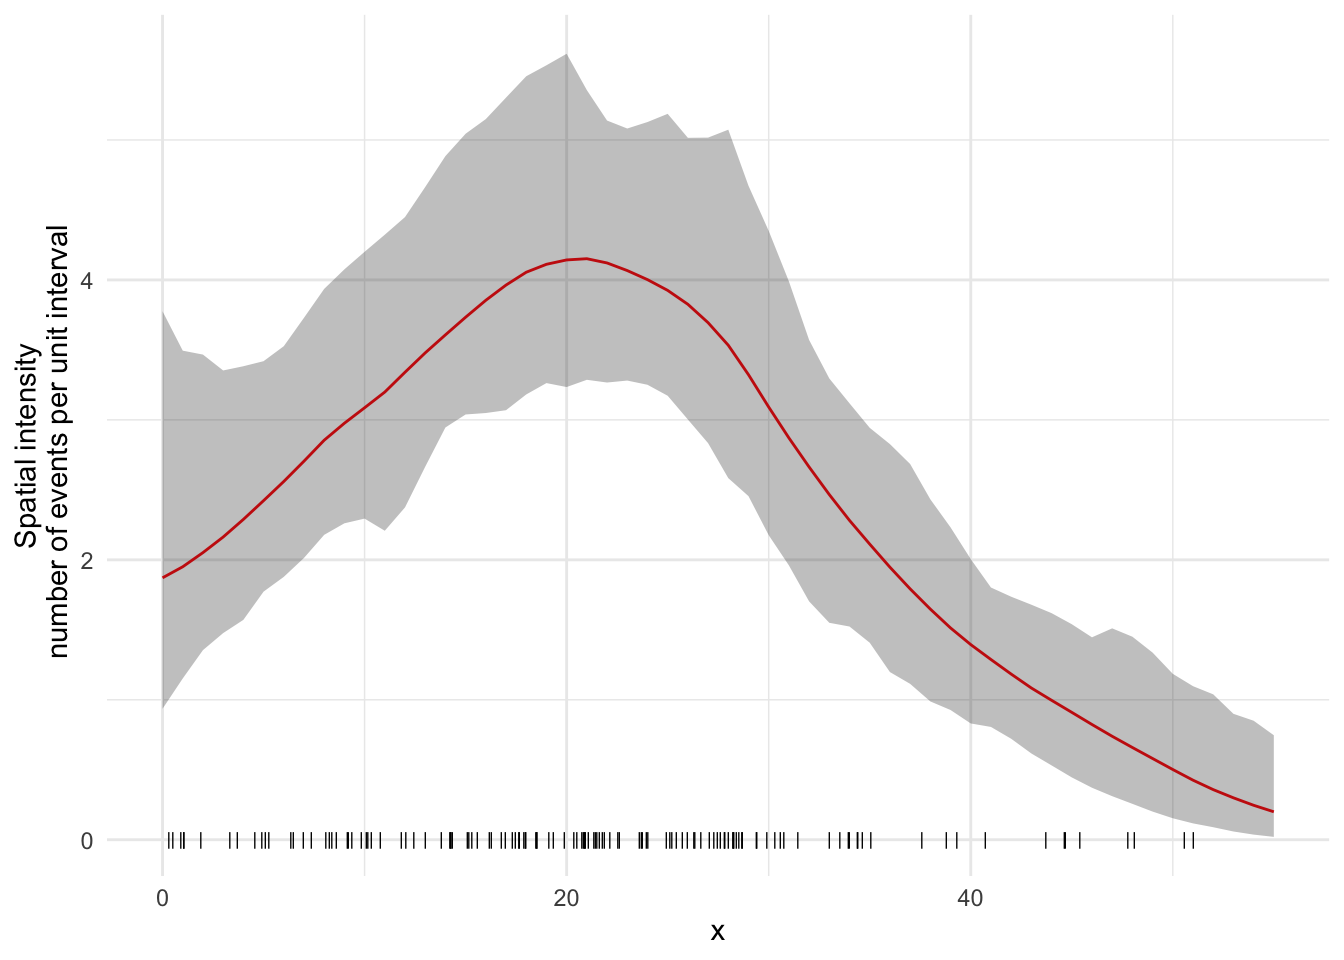
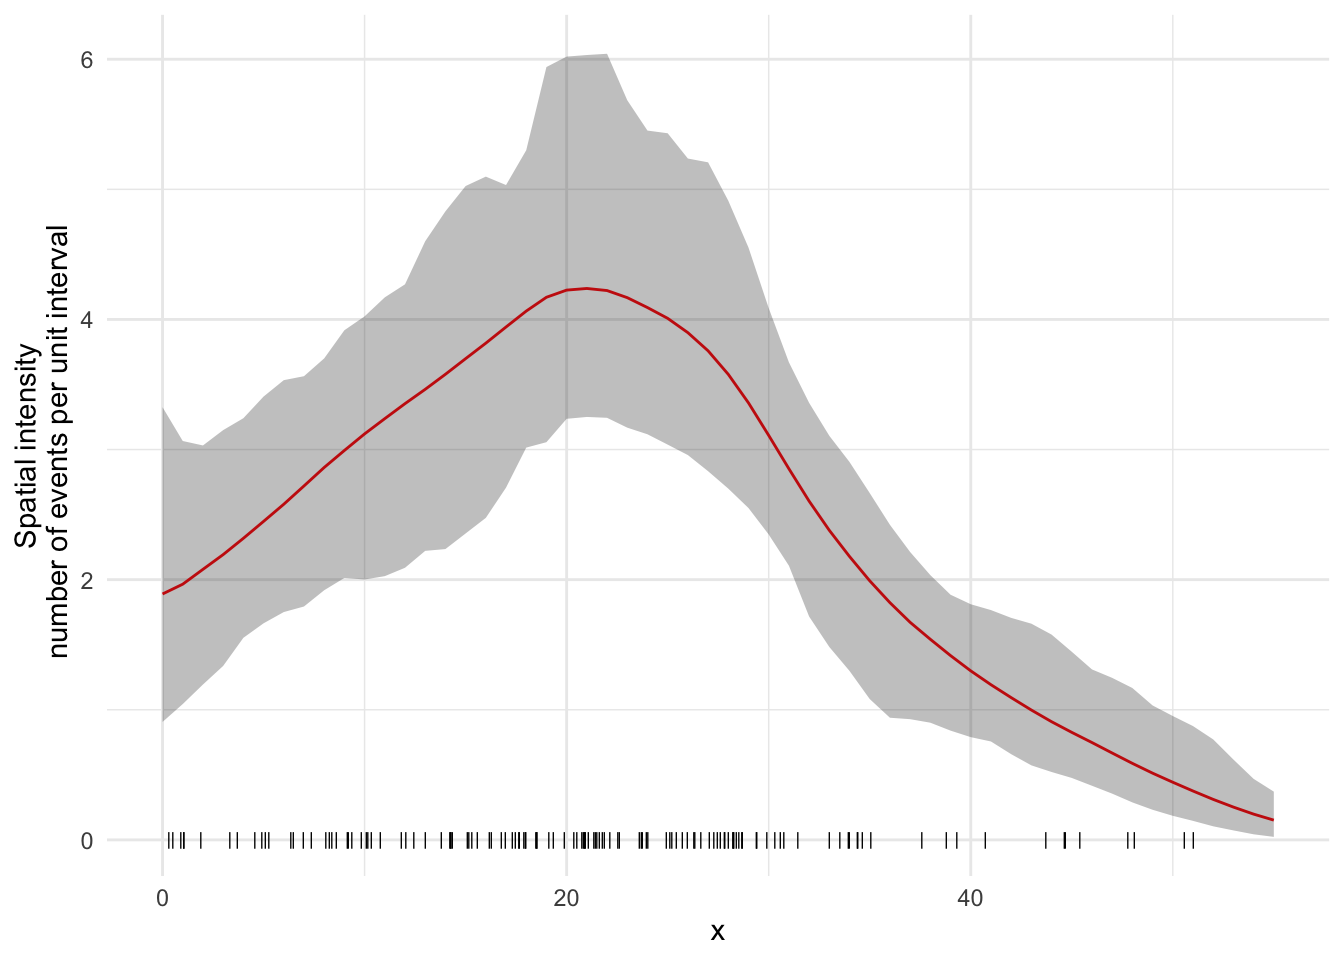
Lesson 21

diff --git a/docs/tuesday-april-18-2023.html b/docs/tuesday-april-18-2023.html
@@ -280,7 +280,7 @@ code span.wa { color: #60a0b0; font-weight: bold; font-style: italic; } /* Warni
 <li class="chapter" data-level="" data-path="tuesday-april-18-2023.html"><a href="tuesday-april-18-2023.html#models-for-point-pattern-data"><i class="fa fa-check"></i>Models for point pattern data</a></li>
 <li class="chapter" data-level="" data-path="tuesday-april-18-2023.html"><a href="tuesday-april-18-2023.html#fitting-and-interpreting-inhibition-models"><i class="fa fa-check"></i>Fitting and interpreting inhibition models</a></li>
 <li class="chapter" data-level="" data-path="tuesday-april-18-2023.html"><a href="tuesday-april-18-2023.html#fitting-and-interpreting-cluster-models"><i class="fa fa-check"></i>Fitting and interpreting cluster models</a></li>
-<li class="chapter" data-level="" data-path="tuesday-april-18-2023.html"><a href="tuesday-april-18-2023.html#fitting-a-log-gaussian-cox-model"><i class="fa fa-check"></i>Fitting a log-Gaussian Cox model</a></li>
+<li class="chapter" data-level="" data-path="tuesday-april-18-2023.html"><a href="tuesday-april-18-2023.html#fitting-and-interpreting-a-log-gaussian-cox-cluster-model"><i class="fa fa-check"></i>Fitting and interpreting a log-Gaussian Cox (cluster) model</a></li>
 </ul></li>
 <li class="chapter" data-level="" data-path="tuesday-april-25-2023.html"><a href="tuesday-april-25-2023.html"><i class="fa fa-check"></i>Tuesday April 25, 2023</a>
 <ul>
@@ -585,8 +585,8 @@ code span.wa { color: #60a0b0; font-weight: bold; font-style: italic; } /* Warni
 <p><img src="ASS-2022_files/figure-html/unnamed-chunk-16-1.png" width="672" /></p>
 <p>The color ramp is the spatial intensity (number of events per unit area) about an arbitrary single event revealing the spatial scale and extent of clustering</p>
 </div>
-<div id="fitting-a-log-gaussian-cox-model" class="section level2 unnumbered hasAnchor">
-<h2>Fitting a log-Gaussian Cox model<a href="tuesday-april-18-2023.html#fitting-a-log-gaussian-cox-model" class="anchor-section" aria-label="Anchor link to header"></a></h2>
+<div id="fitting-and-interpreting-a-log-gaussian-cox-cluster-model" class="section level2 unnumbered hasAnchor">
+<h2>Fitting and interpreting a log-Gaussian Cox (cluster) model<a href="tuesday-april-18-2023.html#fitting-and-interpreting-a-log-gaussian-cox-cluster-model" class="anchor-section" aria-label="Anchor link to header"></a></h2>
 <p>The Thomas cluster model is a type of Cox process where the logarithm of the spatial intensity is a sample from a non-negative random variable. If the dispersion of events around other events is uniform rather than Gaussian than you fit a Matérn cluster model</p>
 <p>A limitation of the Thomas and Matérn cluster models is that the samples are assumed to be <em>spatially independent</em>. Nearby locations might have different spatial intensities</p>
 <p>If there is a systematic trend or covariate influence on the spatial intensity then you can include this in the model</p>
@@ -691,14 +691,14 @@ code span.wa { color: #60a0b0; font-weight: bold; font-style: italic; } /* Warni
 <pre><code>## Rows: 56
 ## Columns: 9
 ## $ x               &lt;dbl&gt; 0, 1, 2, 3, 4, 5, 6, 7, 8, 9, 10, 11, 12, 13, 14, 15, …
-## $ mean            &lt;dbl&gt; 1.871434, 1.950474, 2.051543, 2.162841, 2.288749, 2.42…
-## $ sd              &lt;dbl&gt; 0.7186603, 0.5968408, 0.5237577, 0.4848486, 0.4607192,…
-## $ q0.025          &lt;dbl&gt; 0.935673, 1.152197, 1.354684, 1.476447, 1.570952, 1.77…
-## $ q0.5            &lt;dbl&gt; 1.740613, 1.826105, 1.958424, 2.095861, 2.231631, 2.38…
-## $ q0.975          &lt;dbl&gt; 3.776087, 3.494608, 3.466516, 3.353110, 3.383208, 3.41…
-## $ median          &lt;dbl&gt; 1.740613, 1.826105, 1.958424, 2.095861, 2.231631, 2.38…
-## $ mean.mc_std_err &lt;dbl&gt; 0.07186603, 0.05968408, 0.05237577, 0.04848486, 0.0460…
-## $ sd.mc_std_err   &lt;dbl&gt; 0.06617097, 0.05172584, 0.04355802, 0.03922731, 0.0373…</code></pre>
+## $ mean            &lt;dbl&gt; 1.889903, 1.965244, 2.079264, 2.192633, 2.317669, 2.44…
+## $ sd              &lt;dbl&gt; 0.7277578, 0.5635577, 0.5140244, 0.4791365, 0.4671477,…
+## $ q0.025          &lt;dbl&gt; 0.9064511, 1.0438830, 1.1939807, 1.3368514, 1.5529105,…
+## $ q0.5            &lt;dbl&gt; 1.736144, 1.906014, 2.050241, 2.132197, 2.288178, 2.45…
+## $ q0.975          &lt;dbl&gt; 3.325537, 3.065726, 3.031495, 3.149327, 3.240703, 3.40…
+## $ median          &lt;dbl&gt; 1.736144, 1.906014, 2.050241, 2.132197, 2.288178, 2.45…
+## $ mean.mc_std_err &lt;dbl&gt; 0.07277578, 0.05635577, 0.05140244, 0.04791365, 0.0467…
+## $ sd.mc_std_err   &lt;dbl&gt; 0.10077055, 0.03425871, 0.02966621, 0.02899213, 0.0287…</code></pre>
 <p>You pass this data frame to the <code>plot()</code> method to produce the following prediction plot using the grammar of graphics</p>
 <div class="sourceCode" id="cb70"><pre class="sourceCode r"><code class="sourceCode r"><span id="cb70-1"><a href="tuesday-april-18-2023.html#cb70-1" aria-hidden="true" tabindex="-1"></a><span class="fu">plot</span>(pred.df, <span class="at">color =</span> <span class="st">&quot;red&quot;</span>) <span class="sc">+</span></span>
 <span id="cb70-2"><a href="tuesday-april-18-2023.html#cb70-2" aria-hidden="true" tabindex="-1"></a>  <span class="fu">geom_point</span>(<span class="at">data =</span> pts2, </span>
@@ -755,10 +755,10 @@ code span.wa { color: #60a0b0; font-weight: bold; font-style: italic; } /* Warni
 <div class="sourceCode" id="cb76"><pre class="sourceCode r"><code class="sourceCode r"><span id="cb76-1"><a href="tuesday-april-18-2023.html#cb76-1" aria-hidden="true" tabindex="-1"></a>( Lambda <span class="ot">&lt;-</span> <span class="fu">predict</span>(model.lgcp, </span>
 <span id="cb76-2"><a href="tuesday-april-18-2023.html#cb76-2" aria-hidden="true" tabindex="-1"></a>                    ips, </span>
 <span id="cb76-3"><a href="tuesday-april-18-2023.html#cb76-3" aria-hidden="true" tabindex="-1"></a>                    <span class="sc">~</span> <span class="fu">sum</span>(weight <span class="sc">*</span> <span class="fu">exp</span>(spde1D <span class="sc">+</span> Intercept))) )</span></code></pre></div>
-<pre><code>##       mean       sd   q0.025     q0.5   q0.975   median mean.mc_std_err
-## 1 130.4065 10.75733 111.2944 130.5174 151.1614 130.5174        1.075733
+<pre><code>##       mean       sd   q0.025     q0.5  q0.975   median mean.mc_std_err
+## 1 130.6649 13.20506 108.7045 130.0565 154.991 130.0565        1.320506
 ##   sd.mc_std_err
-## 1     0.6884554</code></pre>
+## 1     0.7423157</code></pre>
 <ul>
 <li><code>mean</code> is the posterior mean abundance</li>
 <li><code>sd</code> is the estimated standard error of the posterior of the abundance</li>
@@ -778,24 +778,24 @@ code span.wa { color: #60a0b0; font-weight: bold; font-style: italic; } /* Warni
 <div class="sourceCode" id="cb79"><pre class="sourceCode r"><code class="sourceCode r"><span id="cb79-1"><a href="tuesday-april-18-2023.html#cb79-1" aria-hidden="true" tabindex="-1"></a>Nest <span class="sc">|&gt;</span></span>
 <span id="cb79-2"><a href="tuesday-april-18-2023.html#cb79-2" aria-hidden="true" tabindex="-1"></a>  <span class="fu">head</span>()</span></code></pre></div>
 <pre><code>##    N         mean           sd       q0.025         q0.5       q0.975
-## 1 50 6.044130e-11 5.431026e-10 3.865837e-22 4.979824e-16 1.275059e-10
-## 2 51 1.212417e-10 1.082287e-09 1.152331e-21 1.271469e-15 2.705324e-10
-## 3 52 2.386314e-10 2.115346e-09 3.368824e-21 3.183940e-15 5.630189e-10
-## 4 53 4.610348e-10 4.056586e-09 9.662900e-21 7.822612e-15 1.149750e-09
-## 5 54 8.746588e-10 7.635483e-09 2.720316e-20 1.886345e-14 2.304710e-09
-## 6 55 1.630068e-09 1.411107e-08 7.519047e-20 4.466031e-14 4.536406e-09
+## 1 50 5.342594e-12 3.216028e-11 1.755266e-22 8.809126e-16 5.765682e-11
+## 2 51 1.137589e-11 6.782482e-11 5.259628e-22 2.233199e-15 1.242328e-10
+## 3 52 2.376544e-11 1.403077e-10 1.545788e-21 5.552506e-15 2.625566e-10
+## 4 53 4.873052e-11 2.848138e-10 4.457466e-21 1.354497e-14 5.444671e-10
+## 5 54 9.810998e-11 5.675241e-10 1.261609e-20 3.243019e-14 1.108249e-09
+## 6 55 1.940168e-10 1.110459e-09 3.505974e-20 7.623458e-14 2.214981e-09
 ##         median mean.mc_std_err sd.mc_std_err
-## 1 4.979824e-16    5.431026e-11  2.697666e-10
-## 2 1.271469e-15    1.082287e-10  5.371728e-10
-## 3 3.183940e-15    2.115346e-10  1.049008e-09
-## 4 7.822612e-15    4.056586e-10  2.009742e-09
-## 5 1.886345e-14    7.635483e-10  3.778760e-09
-## 6 4.466031e-14    1.411107e-09  6.975112e-09</code></pre>
+## 1 8.809126e-16    3.216028e-12  1.341788e-11
+## 2 2.233199e-15    6.782482e-12  2.811034e-11
+## 3 5.552506e-15    1.403077e-11  5.775262e-11
+## 4 1.354497e-14    2.848138e-11  1.164020e-10
+## 5 3.243019e-14    5.675241e-11  2.302430e-10
+## 6 7.623458e-14    1.110459e-10  4.470928e-10</code></pre>
 <p>You compute the 95% prediction interval and the median with the <code>inla.qmarginal()</code> function</p>
 <div class="sourceCode" id="cb81"><pre class="sourceCode r"><code class="sourceCode r"><span id="cb81-1"><a href="tuesday-april-18-2023.html#cb81-1" aria-hidden="true" tabindex="-1"></a><span class="fu">inla.qmarginal</span>(<span class="fu">c</span>(.<span class="dv">025</span>, .<span class="dv">5</span>, .<span class="dv">975</span>), </span>
 <span id="cb81-2"><a href="tuesday-april-18-2023.html#cb81-2" aria-hidden="true" tabindex="-1"></a>               <span class="at">marginal =</span> <span class="fu">list</span>(<span class="at">x =</span> Nest<span class="sc">$</span>N, </span>
 <span id="cb81-3"><a href="tuesday-april-18-2023.html#cb81-3" aria-hidden="true" tabindex="-1"></a>                               <span class="at">y =</span> Nest<span class="sc">$</span>mean))</span></code></pre></div>
-<pre><code>## [1] 100.4717 129.8157 161.9915</code></pre>
+<pre><code>## [1] 101.4664 129.7675 164.2138</code></pre>
 <p>Now compare <code>Lambda</code> to <code>Nest</code> using a plot</p>
 <p>First calculate the posterior distribution conditional on the mean of <code>Lambda</code></p>
 <div class="sourceCode" id="cb83"><pre class="sourceCode r"><code class="sourceCode r"><span id="cb83-1"><a href="tuesday-april-18-2023.html#cb83-1" aria-hidden="true" tabindex="-1"></a>Nest<span class="sc">$</span>plugin_estimate <span class="ot">&lt;-</span> <span class="fu">dpois</span>(Nest<span class="sc">$</span>N, </span>
